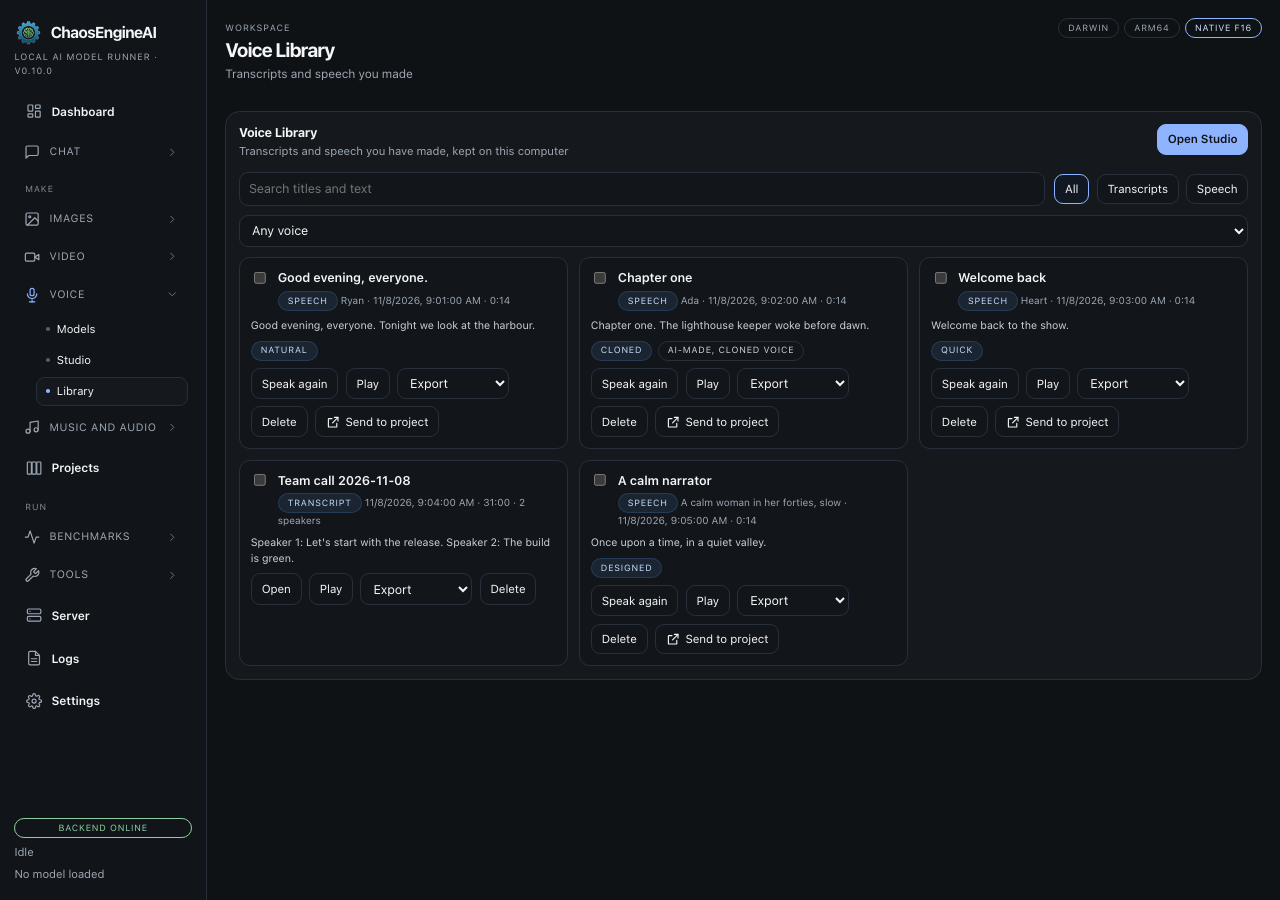
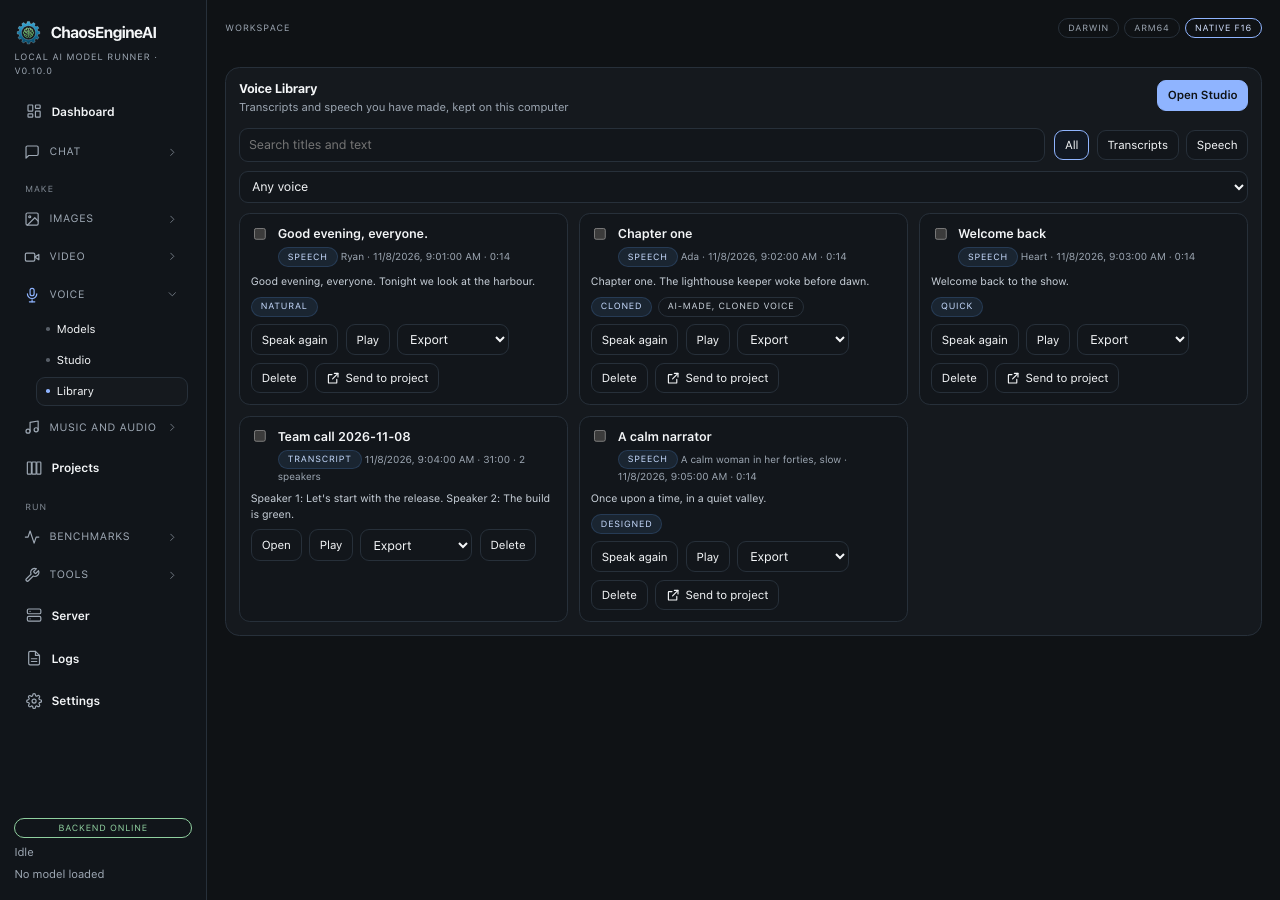
docs: refreshed voice after-shots (sizes collapse, Library header) and hub tracker pages for FU-157

Changed region(s): [[0.1562, 0.0311, 1.0, 0.7156], [0.2812, 0.6533, 0.3125, 0.6844]]

diff --git a/docs/hub/tracker/open.md b/docs/hub/tracker/open.md
@@ -19,11 +19,11 @@ Generated from the Follow-Ups Tracker in `FOLLOW_UPS.md` by `tools/hub_tracker.p
 </details>
 
 <details>
-<summary>FU-157 · Voice makeover (D-73): what was deferred or not checked — Open (2026-11-09): built on feat/voice-makeover, mocked UI and throwaway-cache tests only.</summary>
+<summary>FU-157 · Voice makeover (D-73): what was deferred or not checked — Open (2026-11-09): built on feat/voice-makeover and feat/voice-fu157, mocked UI and throwaway-cache tests only…</summary>
 
-**Status or trigger:** **Open (2026-11-09): built on `feat/voice-makeover`, mocked UI and throwaway-cache tests only.**
+**Status or trigger:** **Open (2026-11-09): built on `feat/voice-makeover` and `feat/voice-fu157`, mocked UI and throwaway-cache tests only.**
 
-**Notes:** Built: delete for dictation and speech models (companions kept when shared, watermark kept while a cloning model remains, refused while voice is busy or a speech model downloads), add-on ticks with removal, Remove voice runtime, runtime parts and In memory now, speech models on the shared Models table with Fit and Kokoro as the first row, Speak voice row and picker drawer, Voices main-voices strip and Use for menu, Chat Voice popover, Library voice-kind filter, copy. Not done: **Cancel** for a speech-model download (no backend cancel; the row shows Downloading), the mock-up's "Show N sizes" collapse of a family (family headings only), the Library and Models page titles still repeat the panel title (only Voice Studio's header was compacted). Not checked: a real delete on the owner's downloaded models and Hugging Face cache, Remove voice runtime and add-on removal on a real venv (pip uninstall of misaki's `zh` requirements), Windows and Linux, and listening.
+**Notes:** Built: delete for dictation and speech models (companions kept when shared, watermark kept while a cloning model remains, refused while voice is busy or a speech model downloads), add-on ticks with removal, Remove voice runtime, runtime parts and In memory now, speech models on the shared Models table with Fit and Kokoro as the first row, Speak voice row and picker drawer, Voices main-voices strip and Use for menu, Chat Voice popover, Library voice-kind filter, copy. Done on `feat/voice-fu157` (2026-11-09): **Cancel** for a speech-model download (child-process download, window-only `POST /api/voice/clone/models/download/cancel`, row progress and Cancel, partials kept for resume), the **Show N sizes** collapse of a family (families of three or more), the Voice Library title shown once (Voice Models panels have distinct titles). Not checked: a real Cancel of a real download, a real delete on the owner's downloaded models and Hugging Face cache, Remove voice runtime and add-on removal on a real venv (pip uninstall of misaki's `zh` requirements), Windows and Linux, and listening.
 
 </details>
 

diff --git a/docs/hub/tracker/README.md b/docs/hub/tracker/README.md
@@ -16,7 +16,7 @@ Generated from the Follow-Ups Tracker in `FOLLOW_UPS.md` by `tools/hub_tracker.p
 | Row | Item | Status |
 |---|---|---|
 | [FU-158](open.md) | Speech GPU add-on as a tick box on Windows and Linux (D-73 M4) | Open (2026-11-09): wired, never run |
-| [FU-157](open.md) | Voice makeover (D-73): what was deferred or not checked | Open (2026-11-09): built on feat/voice-makeover, mocked UI and throwaway-cache tests only. |
+| [FU-157](open.md) | Voice makeover (D-73): what was deferred or not checked | Open (2026-11-09): built on feat/voice-makeover and feat/voice-fu157, mocked UI and throwaway-cache tests only… |
 | [FU-156](open.md) | Any voice in Chat and calls (D-67 W6, D-72): what was not done or not checked | Open (2026-11-09): W6 built on feat/voice-w6 |
 | [FU-155](open.md) | Speech GPU add-on and CUDA speech rows: run them on the RTX 4090 | Open (2026-11-09): written on a Mac, never run. |
 | [FU-154](open.md) | Default cloning model: VoxCPM2 or Qwen3-TTS 0.6B Base (owner listening check) | Open (2026-11-09): waiting for the owner's ears (D-70 answer 2). |
